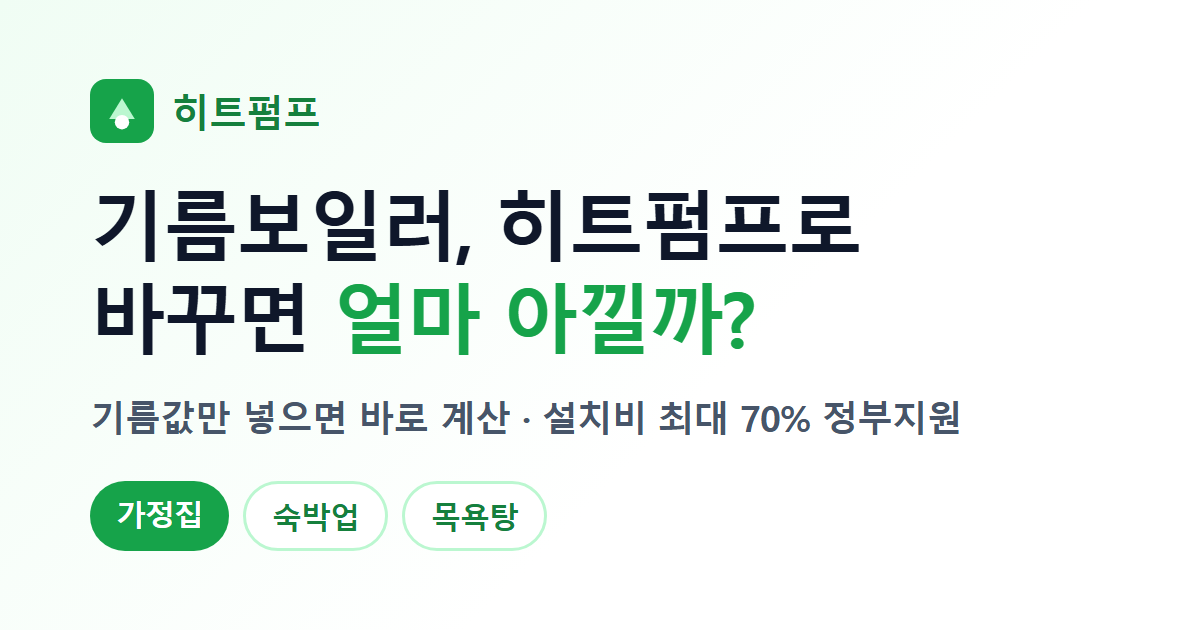
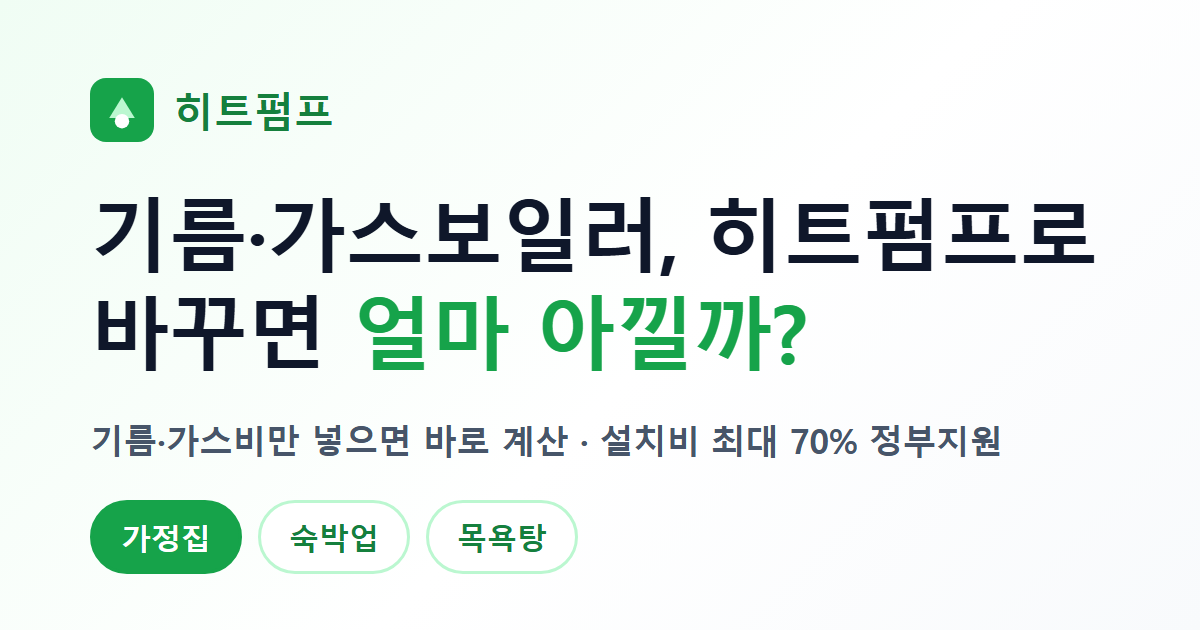
공유 이미지 기름·가스보일러로 교체, app.js 캐시 무효화
- og-image.png 문구를 '기름·가스보일러', '기름·가스비'로 변경
- og:image:alt 문구 수정
- app.js에 버전 쿼리(?v=) 추가해 브라우저 캐시로 옛 계산기가 뜨는 문제 해결

diff --git a/index.html b/index.html
@@ -21,7 +21,7 @@
 <meta property="og:image" content="https://heatpump119.vercel.app/og-image.png">
 <meta property="og:image:width" content="1200">
 <meta property="og:image:height" content="630">
-<meta property="og:image:alt" content="기름보일러를 히트펌프로 바꾸면 난방비 절약 — 무료 계산기">
+<meta property="og:image:alt" content="기름·가스보일러를 히트펌프로 바꾸면 난방비 절약 — 무료 계산기">
 <meta name="twitter:card" content="summary_large_image">
 <meta name="twitter:title" content="기름·가스보일러, 히트펌프로 바꾸면 얼마 아낄까?">
 <meta name="twitter:description" content="기름·가스비만 넣으면 히트펌프 난방비가 바로 계산됩니다.">
@@ -38,6 +38,7 @@
 <!--
   ★ 바꿀 곳
   1) 전화번호 : 010-6647-2269 (Ctrl+H 일괄 변경 — index.html, app.js 둘 다)
+  ※ app.js를 고치면 맨 아래 <script src="app.js?v=..."> 의 v 값도 바꿔 주세요 (브라우저 캐시 때문)
   2) 카톡     : app.js 맨 위 KAKAO_URL 에 채널 주소를 넣으면 카톡 버튼이 나타납니다
   3) 계산 기준: app.js 맨 위 숫자
   4) 지원사업 : 매년 공고가 바뀝니다. "정부 지원" 섹션 날짜·금액을 해마다 확인하세요.
@@ -791,6 +792,6 @@ footer a{color:var(--ink-2);font-weight:700;}
   </div>
 </footer>
 
-<script src="app.js" defer></script>
+<script src="app.js?v=20261102b" defer></script>
 </body>
 </html>
